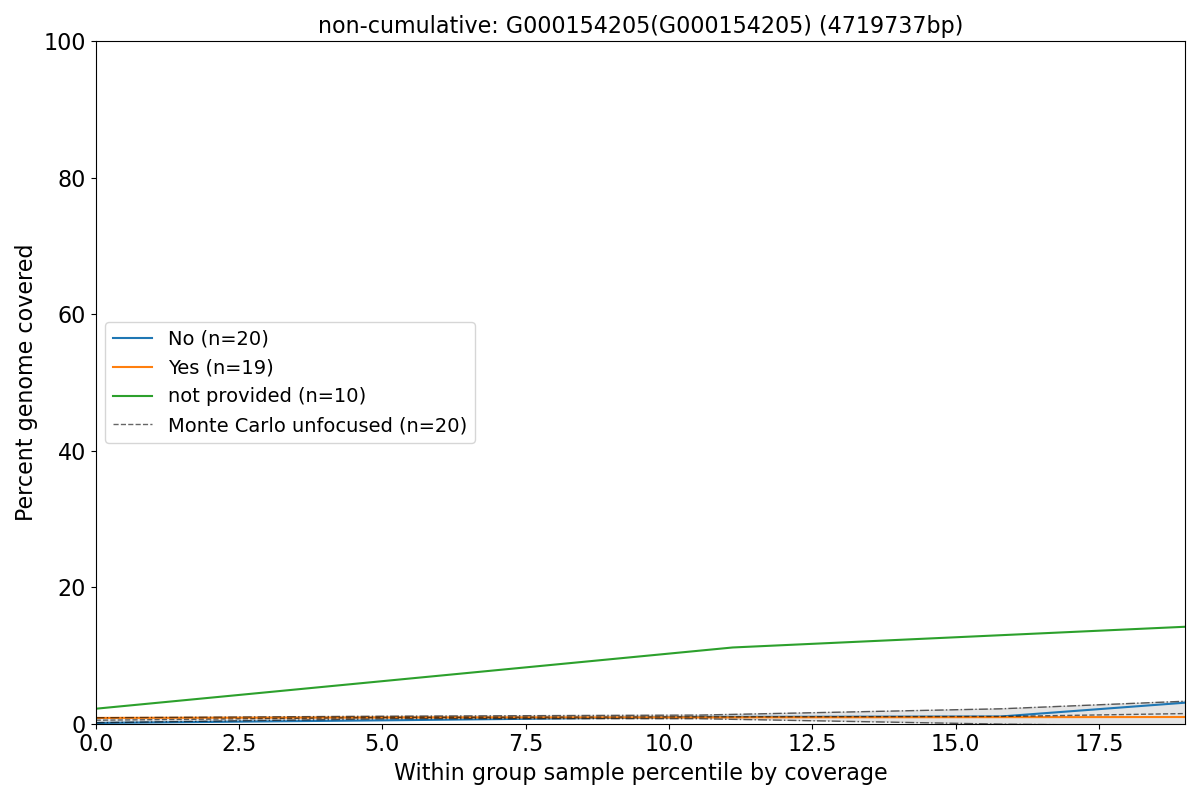
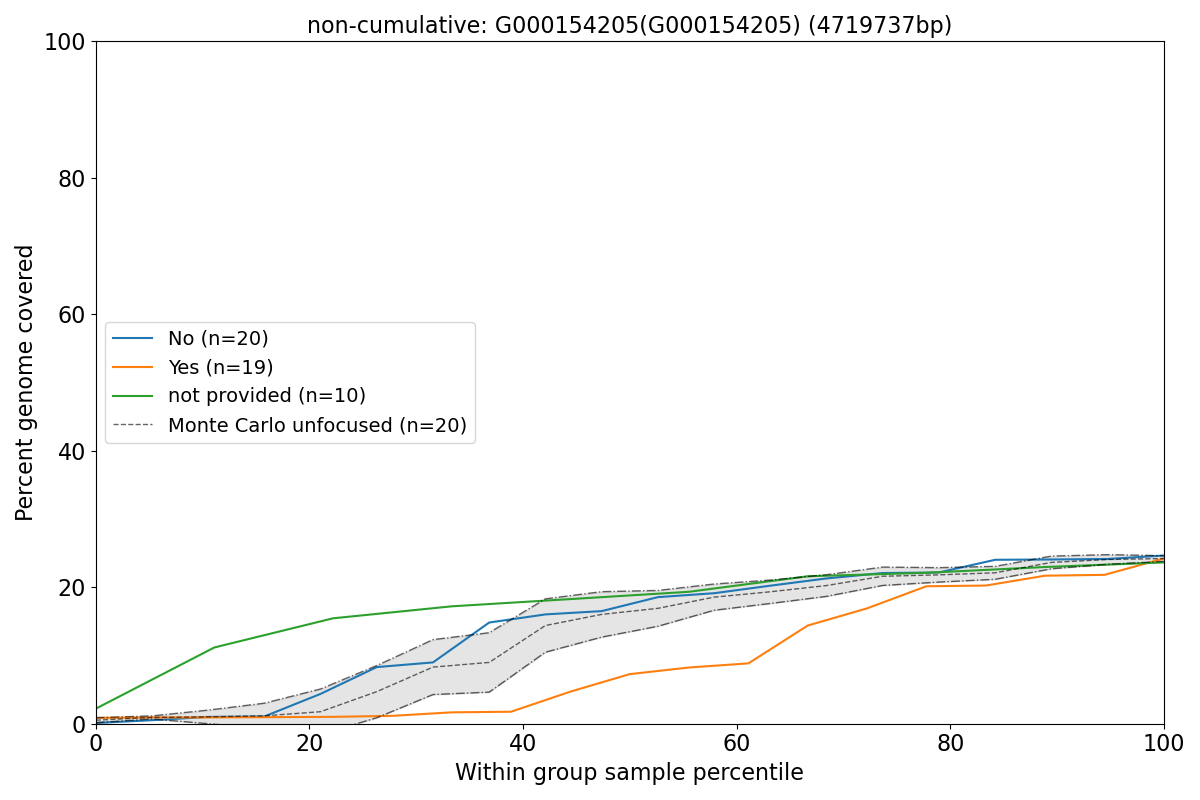
fix xlim in percentile plots

Changed region(s): [[0.0617, 0.6875, 1.0, 1.0], [0.2467, 0.0, 0.8017, 0.0625], [0.185, 0.7812, 0.2467, 0.8125]]

diff --git a/micov/_plot.py b/micov/_plot.py
@@ -401,12 +401,15 @@ def coverage_curve(
 
     ax.set_ylabel("Percent genome covered", fontsize=16)
     if percentile:
-        ax.set_xlabel("Within group sample percentile by coverage", fontsize=16)
+        ax.set_xlabel("Within group sample percentile", fontsize=16)
     else:
         ax.set_xlabel("Within group sample rank by coverage", fontsize=16)
     ax.tick_params(axis="both", which="major", labelsize=16)
     ax.tick_params(axis="both", which="minor", labelsize=16)
-    ax.set_xlim(0, max_x)
+    if percentile:
+        ax.set_xlim(0, 100)
+    else:
+        ax.set_xlim(0, max_x)
     ax.set_ylim(0, 100)
     ax.set_title((f"{tag}: {target_name}({target}) " f"({length}bp)"), fontsize=16)
     ax.legend(labels, fontsize=14, loc="center left")
